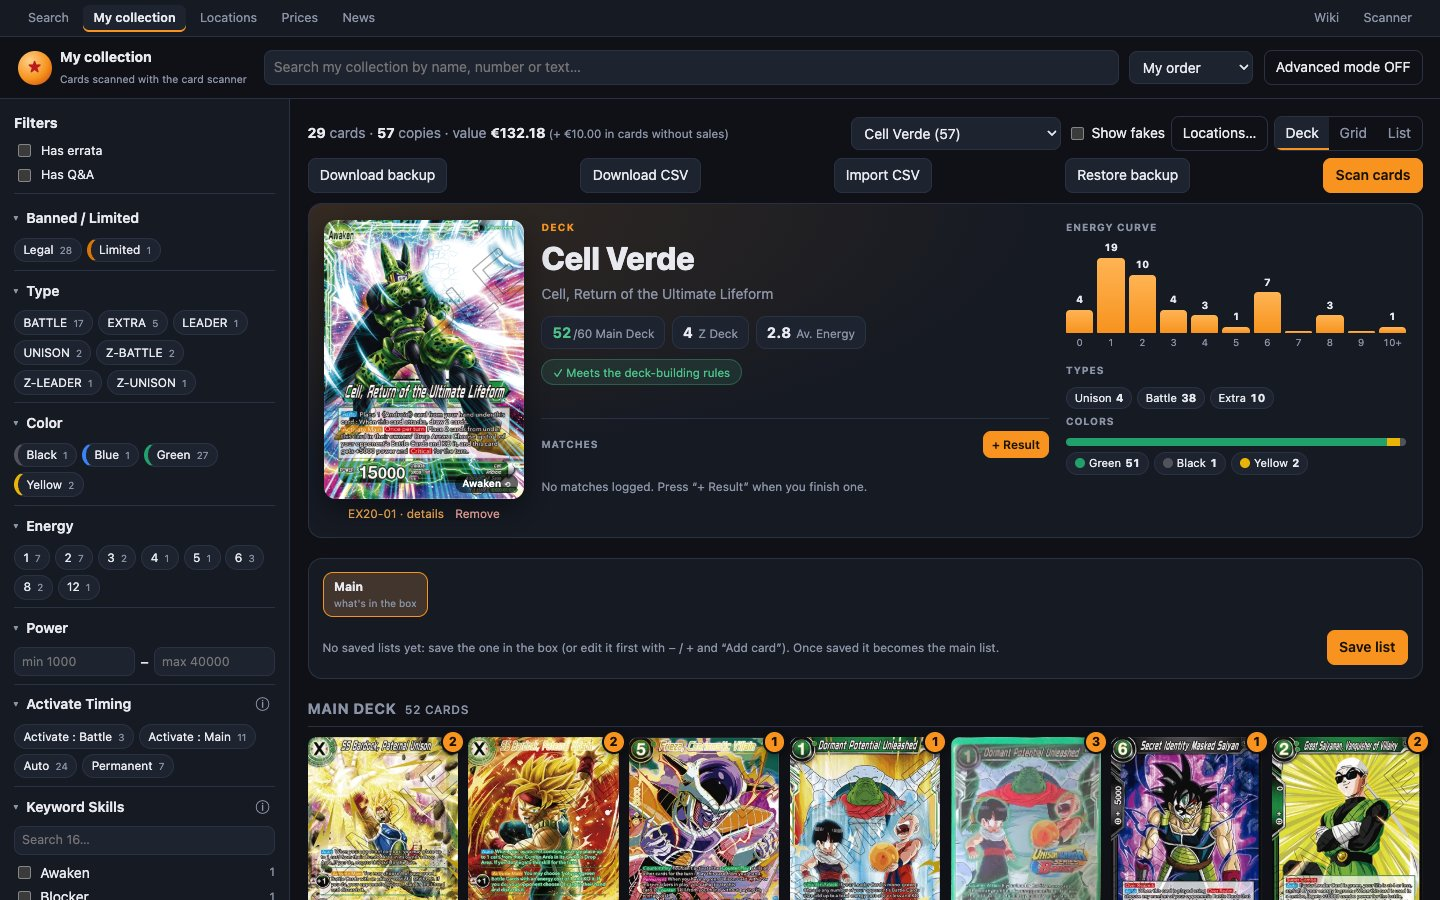
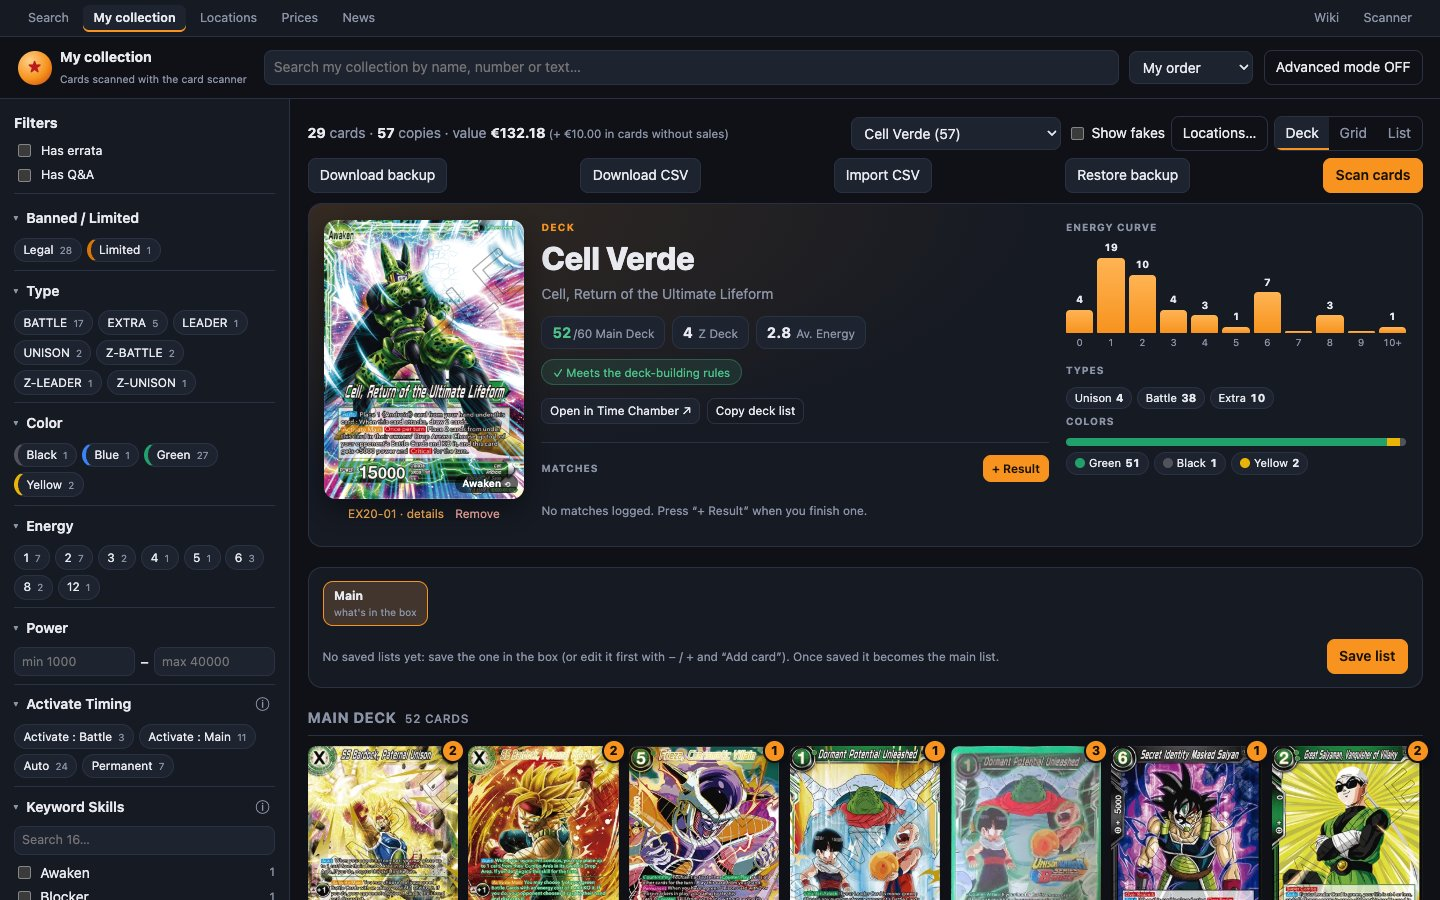
Mazos: abrir en Time Chamber y copiar la lista en texto
- «Open in Time Chamber ↗» abre su importador con Leader, Main, Z y Side Deck (el mismo
  formato de dirección que usa DeckPlanet, con side= además).
- «Copy deck list» copia la lista por secciones con el formato de DeckPlanet.
- Las impresiones de una carta se suman por número. Wiki (ES / EN) y captura del mazo al día.

diff --git a/frontend/src/lib/deckExport.ts b/frontend/src/lib/deckExport.ts
@@ -1,0 +1,74 @@
+import type { CardSummary } from './types'
+
+/**
+ * Exportar un mazo fuera de la web:
+ * - a Time Chamber (simulador online de DBS Masters): abre su importador con la lista en la
+ *   dirección, igual que hace DeckPlanet. Formato comprobado a mano:
+ *   https://time-chamber.net/decks/import?leader=BT14-002&main=BT14-018x4,…&z=EX23-02x4&side=BT5-023x2
+ * - como texto (el formato de DeckPlanet): para pegarlo en TCGArena, Discord, etc.
+ * Las impresiones de una carta (alt art…) comparten número: se juntan y se suman sus copias.
+ */
+
+const TIME_CHAMBER_IMPORT = 'https://time-chamber.net/decks/import'
+
+export interface ExportDeck {
+  leader?: CardSummary
+  main: CardSummary[]
+  z: CardSummary[]
+  side: CardSummary[]
+}
+
+interface Line {
+  number: string
+  name: string
+  quantity: number
+}
+
+/** Una línea por número de carta, ordenadas por número (BT2 antes que BT10). */
+function lines(cards: CardSummary[]): Line[] {
+  const byNumber = new Map<string, Line>()
+  for (const c of cards) {
+    const n = c.quantity ?? 1
+    const line = byNumber.get(c.card_number)
+    if (line) line.quantity += n
+    else byNumber.set(c.card_number, { number: c.card_number, name: c.name, quantity: n })
+  }
+  return [...byNumber.values()]
+    .filter((l) => l.quantity > 0)
+    .sort((a, b) => a.number.localeCompare(b.number, 'en', { numeric: true }))
+}
+
+export function isExportable(deck: ExportDeck): boolean {
+  return Boolean(deck.leader || deck.main.length || deck.z.length || deck.side.length)
+}
+
+/** Dirección del importador de Time Chamber con el mazo (Leader, Main, Z y Side). */
+export function timeChamberUrl(deck: ExportDeck): string {
+  const params = new URLSearchParams()
+  if (deck.leader) params.set('leader', deck.leader.card_number)
+  const part = (cards: CardSummary[]) => lines(cards).map((l) => `${l.number}x${l.quantity}`).join(',')
+  for (const [key, cards] of [['main', deck.main], ['z', deck.z], ['side', deck.side]] as const) {
+    const value = part(cards)
+    if (value) params.set(key, value)
+  }
+  return `${TIME_CHAMBER_IMPORT}?${params}`
+}
+
+/** La lista en texto, por secciones: «4 Jiren, the Avenger [BT14-018]». */
+export function deckListText(deck: ExportDeck): string {
+  const out: string[] = []
+  const section = (title: string, rows: string[]) => {
+    if (!rows.length) return
+    if (out.length) out.push('')
+    out.push(`_____${title}_____`, ...rows)
+  }
+  if (deck.leader) {
+    const { name, back_name, card_number } = deck.leader
+    section('Leader', [`${back_name && back_name !== name ? `${name} // ${back_name}` : name} [${card_number}]`])
+  }
+  const rows = (cards: CardSummary[]) => lines(cards).map((l) => `${l.quantity} ${l.name} [${l.number}]`)
+  section('Main Deck', rows(deck.main))
+  section('Z Deck', rows(deck.z))
+  section('Side Deck', rows(deck.side))
+  return `${out.join('\n')}\n`
+}

diff --git a/frontend/src/components/DeckView.tsx b/frontend/src/components/DeckView.tsx
@@ -5,6 +5,7 @@ import { useCallback, useEffect, useMemo, useRef, useState } from 'react'
 import { api } from '../lib/api'
 import { colorClass } from '../lib/colors'
 import type { CardSummary, DeckChange, DeckDetail, DeckListCard, DeckVersionDetail, Location, RestoreResult } from '../lib/types'
+import { deckListText, isExportable, timeChamberUrl, type ExportDeck } from '../lib/deckExport'
 import { cardThumb } from '../lib/types'
 import { CardPicker, MatchesPanel, SaveListModal, VersionBar, versionLabel } from './DeckHistory'
 
@@ -406,6 +407,7 @@ export default function DeckView({ deck, cards, loading, onOpen, onReorder, onCo
               </ul>
             </details>
           )}
+          <DeckExport deck={{ leader, main, z: zDeck, side }} />
         </div>
 
         {detail ? (
@@ -683,6 +685,41 @@ function SortableDeckCard({
     >
       <DeckCard card={card} flag={flag} onOpen={onOpen} controls={controls} />
     </li>
+  )
+}
+
+/** Llevar el mazo que se está viendo (la lista principal o la versión elegida) a Time Chamber o copiarlo en texto. */
+function DeckExport({ deck }: { deck: ExportDeck }) {
+  const [copy, setCopy] = useState<'idle' | 'copied' | 'manual'>('idle')
+  if (!isExportable(deck)) return null
+  const text = deckListText(deck)
+  const copyList = async () => {
+    try {
+      await navigator.clipboard.writeText(text)
+      setCopy('copied')
+      window.setTimeout(() => setCopy('idle'), 2000)
+    } catch {
+      setCopy('manual')
+    }
+  }
+  return (
+    <div className="deck-export">
+      <a
+        className="btn small"
+        href={timeChamberUrl(deck)}
+        target="_blank"
+        rel="noreferrer"
+        title="Open this list in the Time Chamber deck builder and simulator (Leader, Main, Z and Side Deck)"
+      >
+        Open in Time Chamber ↗
+      </a>
+      <button type="button" className="btn small ghost" onClick={copyList} title="Copy the list as text, e.g. to paste it in TCGArena or Discord">
+        {copy === 'copied' ? 'Deck list copied ✓' : 'Copy deck list'}
+      </button>
+      {copy === 'manual' && (
+        <textarea className="input deck-export-text" readOnly value={text} rows={8} onFocus={(e) => e.currentTarget.select()} autoFocus />
+      )}
+    </div>
   )
 }
 

diff --git a/frontend/src/lib/wiki.ts b/frontend/src/lib/wiki.ts
@@ -95,7 +95,7 @@ export const WIKI_ARTICLES: WikiArticle[] = [
   { slug: 'mazos', category: 'coleccion', icon: '🃏', cover: 'mazo.jpg',
     title: { en: 'Decks', es: 'Mazos' },
     excerpt: { en: 'Leader, Main Deck and Side Deck, list versions, matches, stats and history.', es: 'Leader, Main Deck y Side Deck, versiones de la lista, partidas, estadísticas e histórico.' },
-    keywords: 'mazo deck leader side deck partidas estadisticas historico versiones archivar deck matches stats history versions archive' },
+    keywords: 'mazo deck leader side deck partidas estadisticas historico versiones archivar exportar copiar lista simulador deck matches stats history versions archive export copy list time chamber timechamber tcgarena simulator' },
   { slug: 'importar-exportar', category: 'coleccion', icon: '📤', cover: 'csv.jpg',
     title: { en: 'Import, export and collection backup', es: 'Importar, exportar y copia de la colección' },
     excerpt: { en: 'CSV for spreadsheets, and the full JSON backup you can restore.', es: 'CSV para hojas de cálculo, y la copia completa en JSON que se puede restaurar.' },

diff --git a/frontend/src/index.css b/frontend/src/index.css
@@ -744,6 +744,10 @@ strong.loc-title { padding: 0.35rem 0; }
 .deck-check.error { color: #ffb1a8; background: color-mix(in srgb, var(--danger) 12%, transparent); border-color: color-mix(in srgb, var(--danger) 35%, transparent); }
 .deck-check.warn { color: var(--accent-2); background: color-mix(in srgb, var(--accent) 12%, transparent); border-color: color-mix(in srgb, var(--accent) 30%, transparent); }
 details.deck-check { border-radius: 12px; }
+/* Exportar el mazo: Time Chamber y lista en texto */
+.deck-export { display: flex; flex-wrap: wrap; align-items: center; gap: 0.5rem; margin-top: 0.35rem; }
+.deck-export a.btn { text-decoration: none; color: inherit; }
+.deck-export-text { flex-basis: 100%; width: 100%; font-family: ui-monospace, Menlo, monospace; font-size: 0.8rem; resize: vertical; }
 details.deck-check summary { cursor: pointer; list-style: none; font-weight: 600; }
 details.deck-check summary::-webkit-details-marker { display: none; }
 details.deck-check summary::after { content: ' ▾'; opacity: 0.7; }

diff --git a/frontend/wiki/es/mazos.md b/frontend/wiki/es/mazos.md
@@ -65,6 +65,25 @@ Cada carta con problemas lleva una marca con el motivo.
 
 **Pulsa cualquier barra o color para filtrar la lista**: por ejemplo, ver solo las cartas de coste 2. Cada sección dice entonces «X of Y cards». **«✕ Clear filters»** vuelve a mostrarlo todo.
 
+### Exportar el mazo
+
+Debajo de la comprobación de reglas hay dos botones. Usan **la lista que estás viendo**: la principal (con los cambios sin guardar) o la versión guardada que hayas elegido.
+
+- **«Open in Time Chamber ↗»** (abrir en Time Chamber) abre el mazo en [Time Chamber](https://time-chamber.net/), el simulador y creador de mazos online de Masters, en una pestaña nueva: Leader, Main Deck, Z Deck y Side Deck. Para verlo y jugarlo allí no hace falta cuenta; para guardarlo, sí.
+- **«Copy deck list»** (copiar la lista) copia la lista en texto, por secciones, lista para pegarla en TCGArena, Discord o un mensaje:
+
+```
+_____Leader_____
+Cell // Cell, Return of the Ultimate Lifeform [EX20-01]
+
+_____Main Deck_____
+2 Android 20, Vile Creator [BT5-070]
+4 Dormant Potential Unleashed [BT10-088]
+…
+```
+
+Las distintas impresiones de una carta (alt art, promos) comparten número, así que se suman: 1 + 3 copias de BT10-088 salen como **4 Dormant Potential Unleashed**. Solo salen de la web los números de carta, y solo cuando pulsas el botón.
+
 ## Las secciones de la lista
 
 - **«Main Deck»** (mazo principal).

diff --git a/frontend/wiki/en/mazos.md b/frontend/wiki/en/mazos.md
@@ -65,6 +65,25 @@ Each card with a problem carries a mark with the reason.
 
 **Tap any bar or colour to filter the list**: for example, to see only the cards that cost 2. Each section then says “X of Y cards”. **✕ Clear filters** shows everything again.
 
+### Exporting the deck
+
+Under the rules check there are two buttons. They take **the list you're looking at**: the main list (with any unsaved changes) or the saved version you picked.
+
+- **Open in Time Chamber ↗** opens the deck in [Time Chamber](https://time-chamber.net/), the online Masters simulator and deck builder, in a new tab: Leader, Main Deck, Z Deck and Side Deck. You don't need an account to see it or play it there; you do to save it.
+- **Copy deck list** copies the list as text, by sections, ready to paste in TCGArena, Discord or a message:
+
+```
+_____Leader_____
+Cell // Cell, Return of the Ultimate Lifeform [EX20-01]
+
+_____Main Deck_____
+2 Android 20, Vile Creator [BT5-070]
+4 Dormant Potential Unleashed [BT10-088]
+…
+```
+
+Different printings of a card (alt arts, promos) share the card number, so they're added together: 1 + 3 copies of BT10-088 become **4 Dormant Potential Unleashed**. Only card numbers leave the app, and only when you press the button.
+
 ## The list sections
 
 - **Main Deck**.
